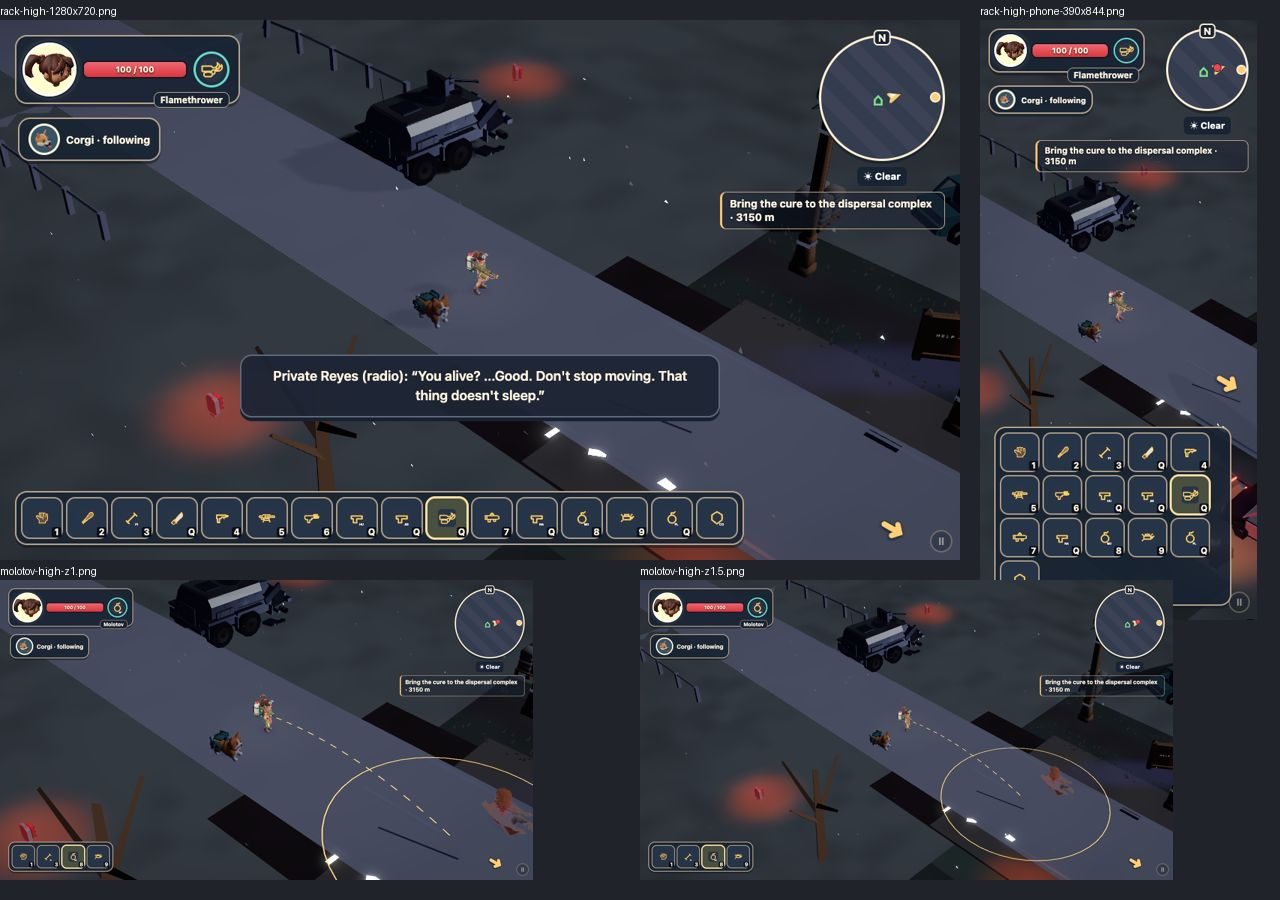
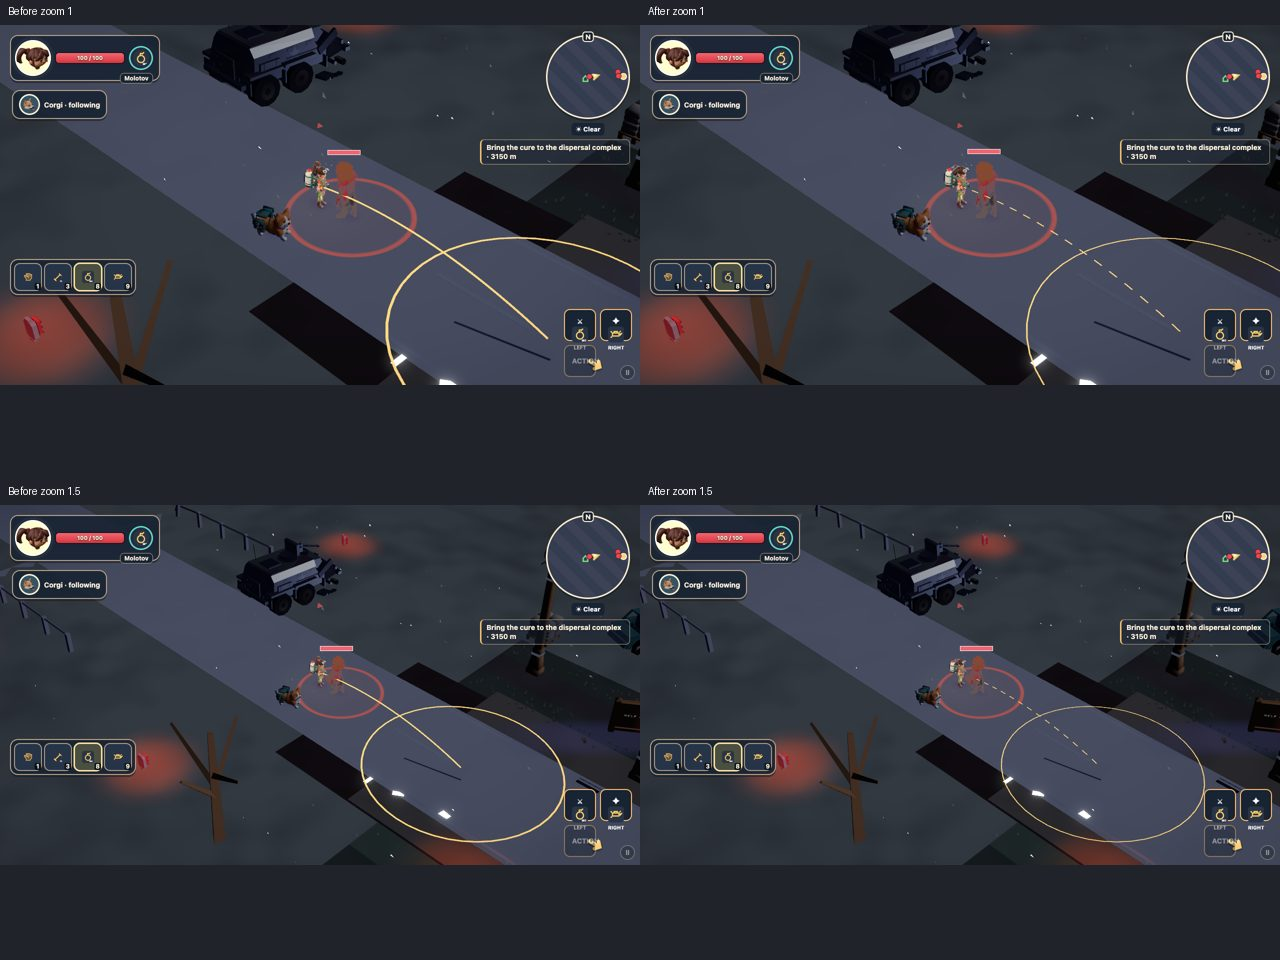
Record empty ammo and matched throwable preview verification

diff --git a/docs/reports/s85-l10rack/README.md b/docs/reports/s85-l10rack/README.md
@@ -32,3 +32,8 @@
 ## Touch correction
 
 Real CDP touch events exposed overlap between Flashbang's slot and the touch attack controls. `2f21534d` positions the rack directly from the active input scheme, above the attack controls. The rebuilt headless smoke test passed all 14 real touch selections as well as clicks and Q cycling. Opened the 390×844 capture: every rack slot is within the viewport and the attack controls are below the rack with a clear gap. Focused ESLint passed. Matched throwable before/after captures and empty-ammo visual review remain open.
+
+## Empty ammo and matched preview evidence
+
+- Corrected browser fixture reads the upgraded starting charge count (three in this campaign), spends all charges, reselects Molotov and verifies selected=true, empty=true and an Empty accessible label. Headless test passed; opened empty-molotov.png and saw the selected slot with its ! marker.
+- Built an isolated source archive with only ActionView.ts restored from af05750d. The same browser fixture passed against both builds. Opened before/after captures at HIGH zoom 1 and 1.5: the former thick continuous trajectory/ring is now thin and dashed with a thin ground ring. This LEFT-slot fixture was already gold before; the supplied PO screenshot documents the former RIGHT-slot cyan color. Camera/scene match; zoom 1 clips the ring at the edge, while zoom 1.5 shows the full circle. Updated review.jpg contains the four matched captures.
